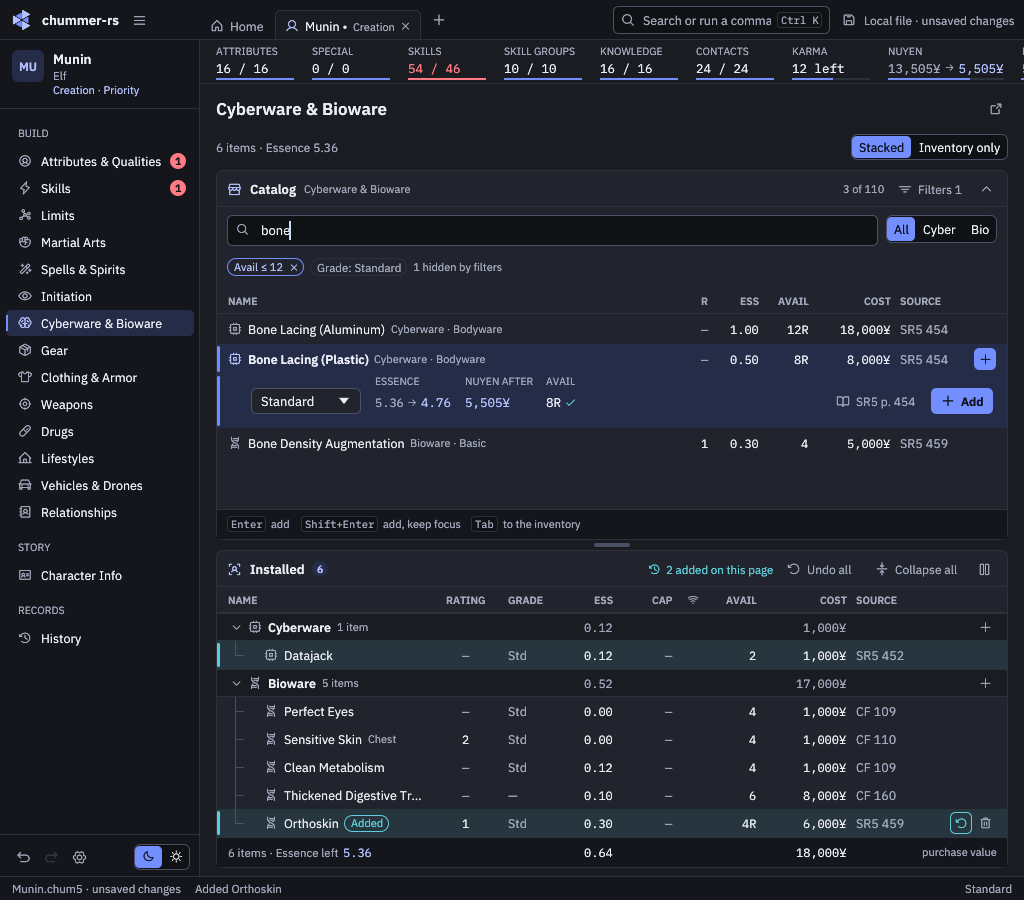
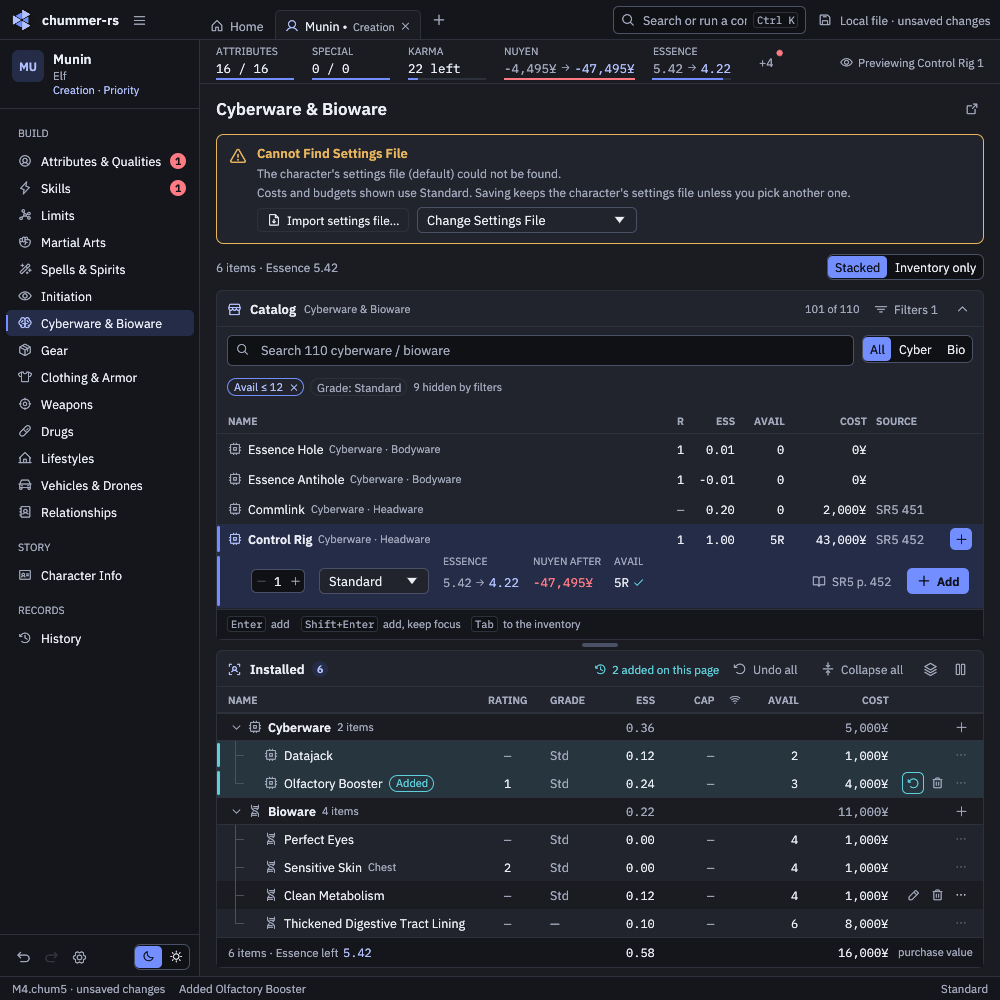
Workspace inventory screenshots with the ⋯ column (inventory, stacked, table, weapons); captions

Changed region(s): [[0.0, 0.0, 1.0, 0.9956], [0.93, 0.6533, 0.961, 0.6844]]

diff --git a/README.md b/README.md
@@ -613,9 +613,9 @@ was.
   character.
 
   ![Cyberware with the catalog beside it: two items added this visit, a record previewed](docs/screenshots/workspace-inventory-dark.png)
-  ![A narrow window: the catalog above the inventory, the selected record's details under its row](docs/screenshots/workspace-inventory-stacked-dark.png)
+  ![A narrow window: the catalog above the inventory, the selected record's details under its row, the budget strip's "+4"](docs/screenshots/workspace-inventory-stacked-dark.png)
   ![Adding into the selected goggles: the Target, its capacity, what does not fit dimmed with the reason](docs/screenshots/workspace-inventory-target-dark.png)
-  ![The item table in career: a selected container, a hovered mod's actions](docs/screenshots/workspace-inventory-table-dark.png)
+  ![The item table in career: the selected glasses, a hovered mod's Edit and Sell, the ⋯ on every row](docs/screenshots/workspace-inventory-table-dark.png)
   ![A row's ⋯ menu, open on a row that is not selected](docs/screenshots/workspace-inventory-menu-dark.png)
   ![Dragging a vision enhancement onto goggles: the targets outlined, the chip says what the drop does](docs/screenshots/workspace-inventory-drag-dark.png)
   ![Weapons: dice pool, damage, ammunition and the equipped toggles](docs/screenshots/workspace-inventory-weapons-dark.png)
